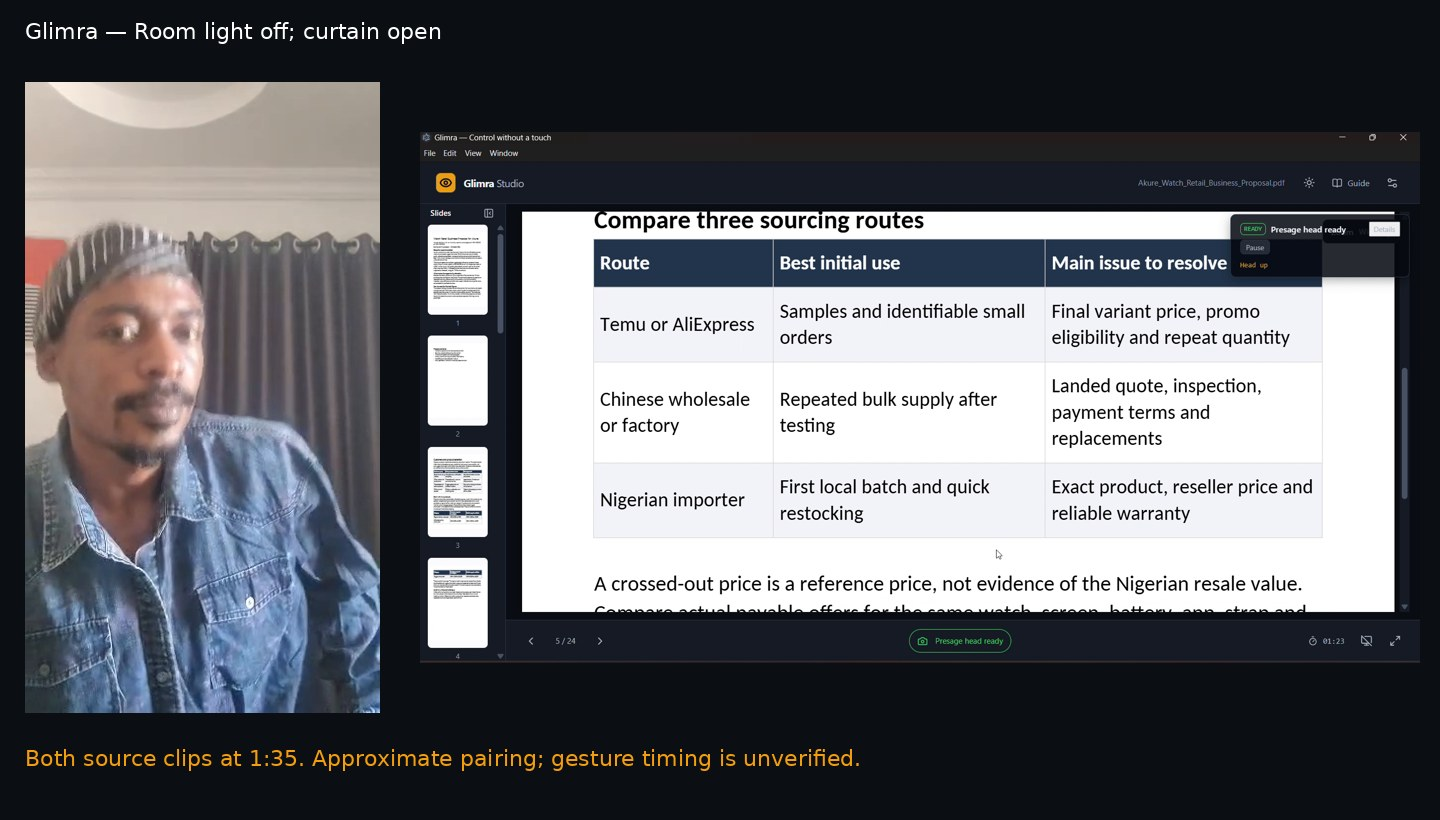
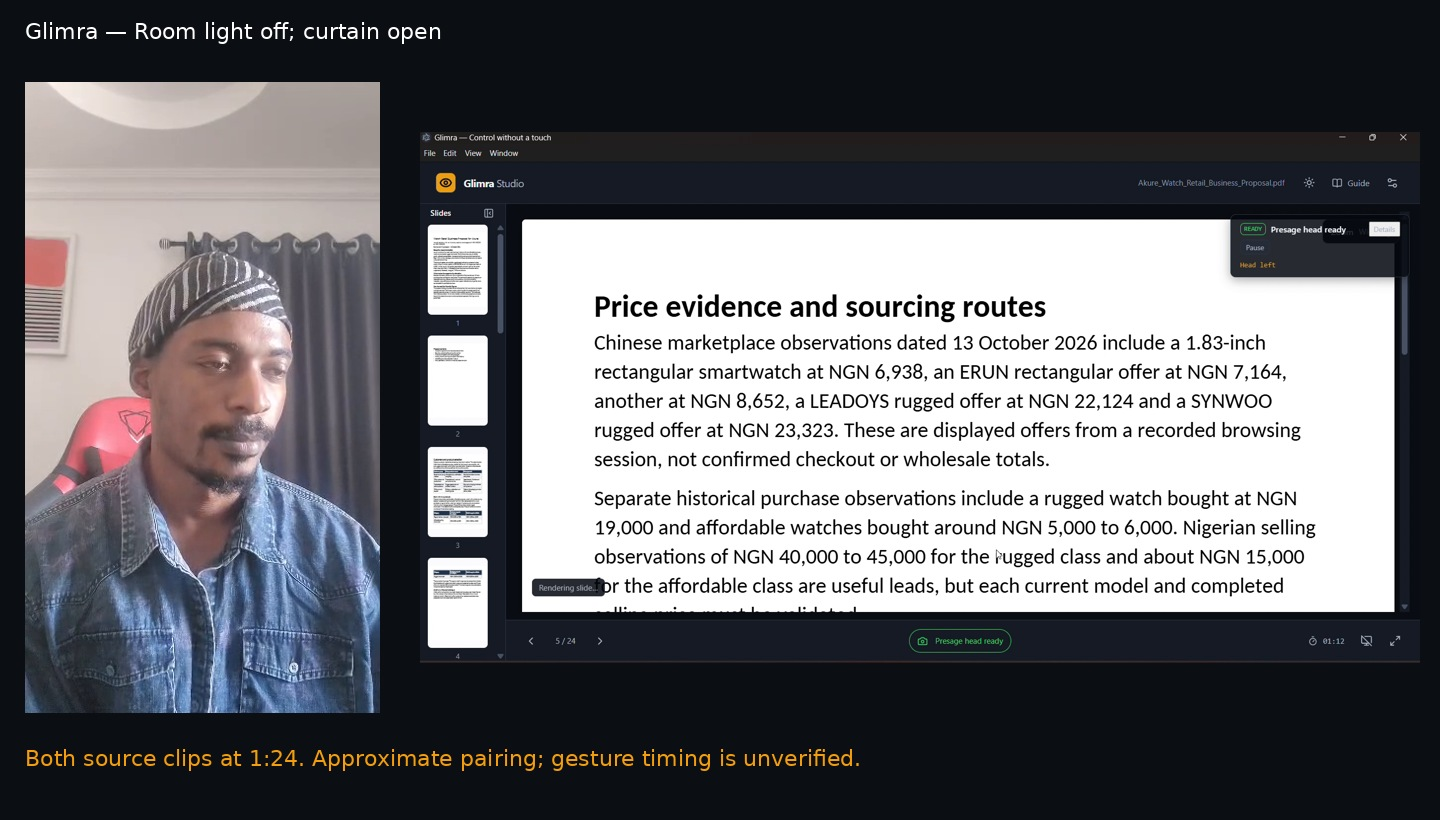
docs: replace blurred daylight evidence frame

diff --git a/docs/LIGHTING_TEST_2026-11-20.md b/docs/LIGHTING_TEST_2026-11-20.md
@@ -20,7 +20,7 @@ Each image places the phone view beside a desktop frame at the same nominal sour
 
 ![Room light on, both sources at 0:30](evidence/2026-11-20/room-light.jpg)
 
-![Daylight condition, both sources at 1:35](evidence/2026-11-20/daylight.jpg)
+![Daylight condition, both sources at 1:24](evidence/2026-11-20/daylight.jpg)
 
 ![Low-light condition, both sources at 2:44](evidence/2026-11-20/low-light.jpg)
 
